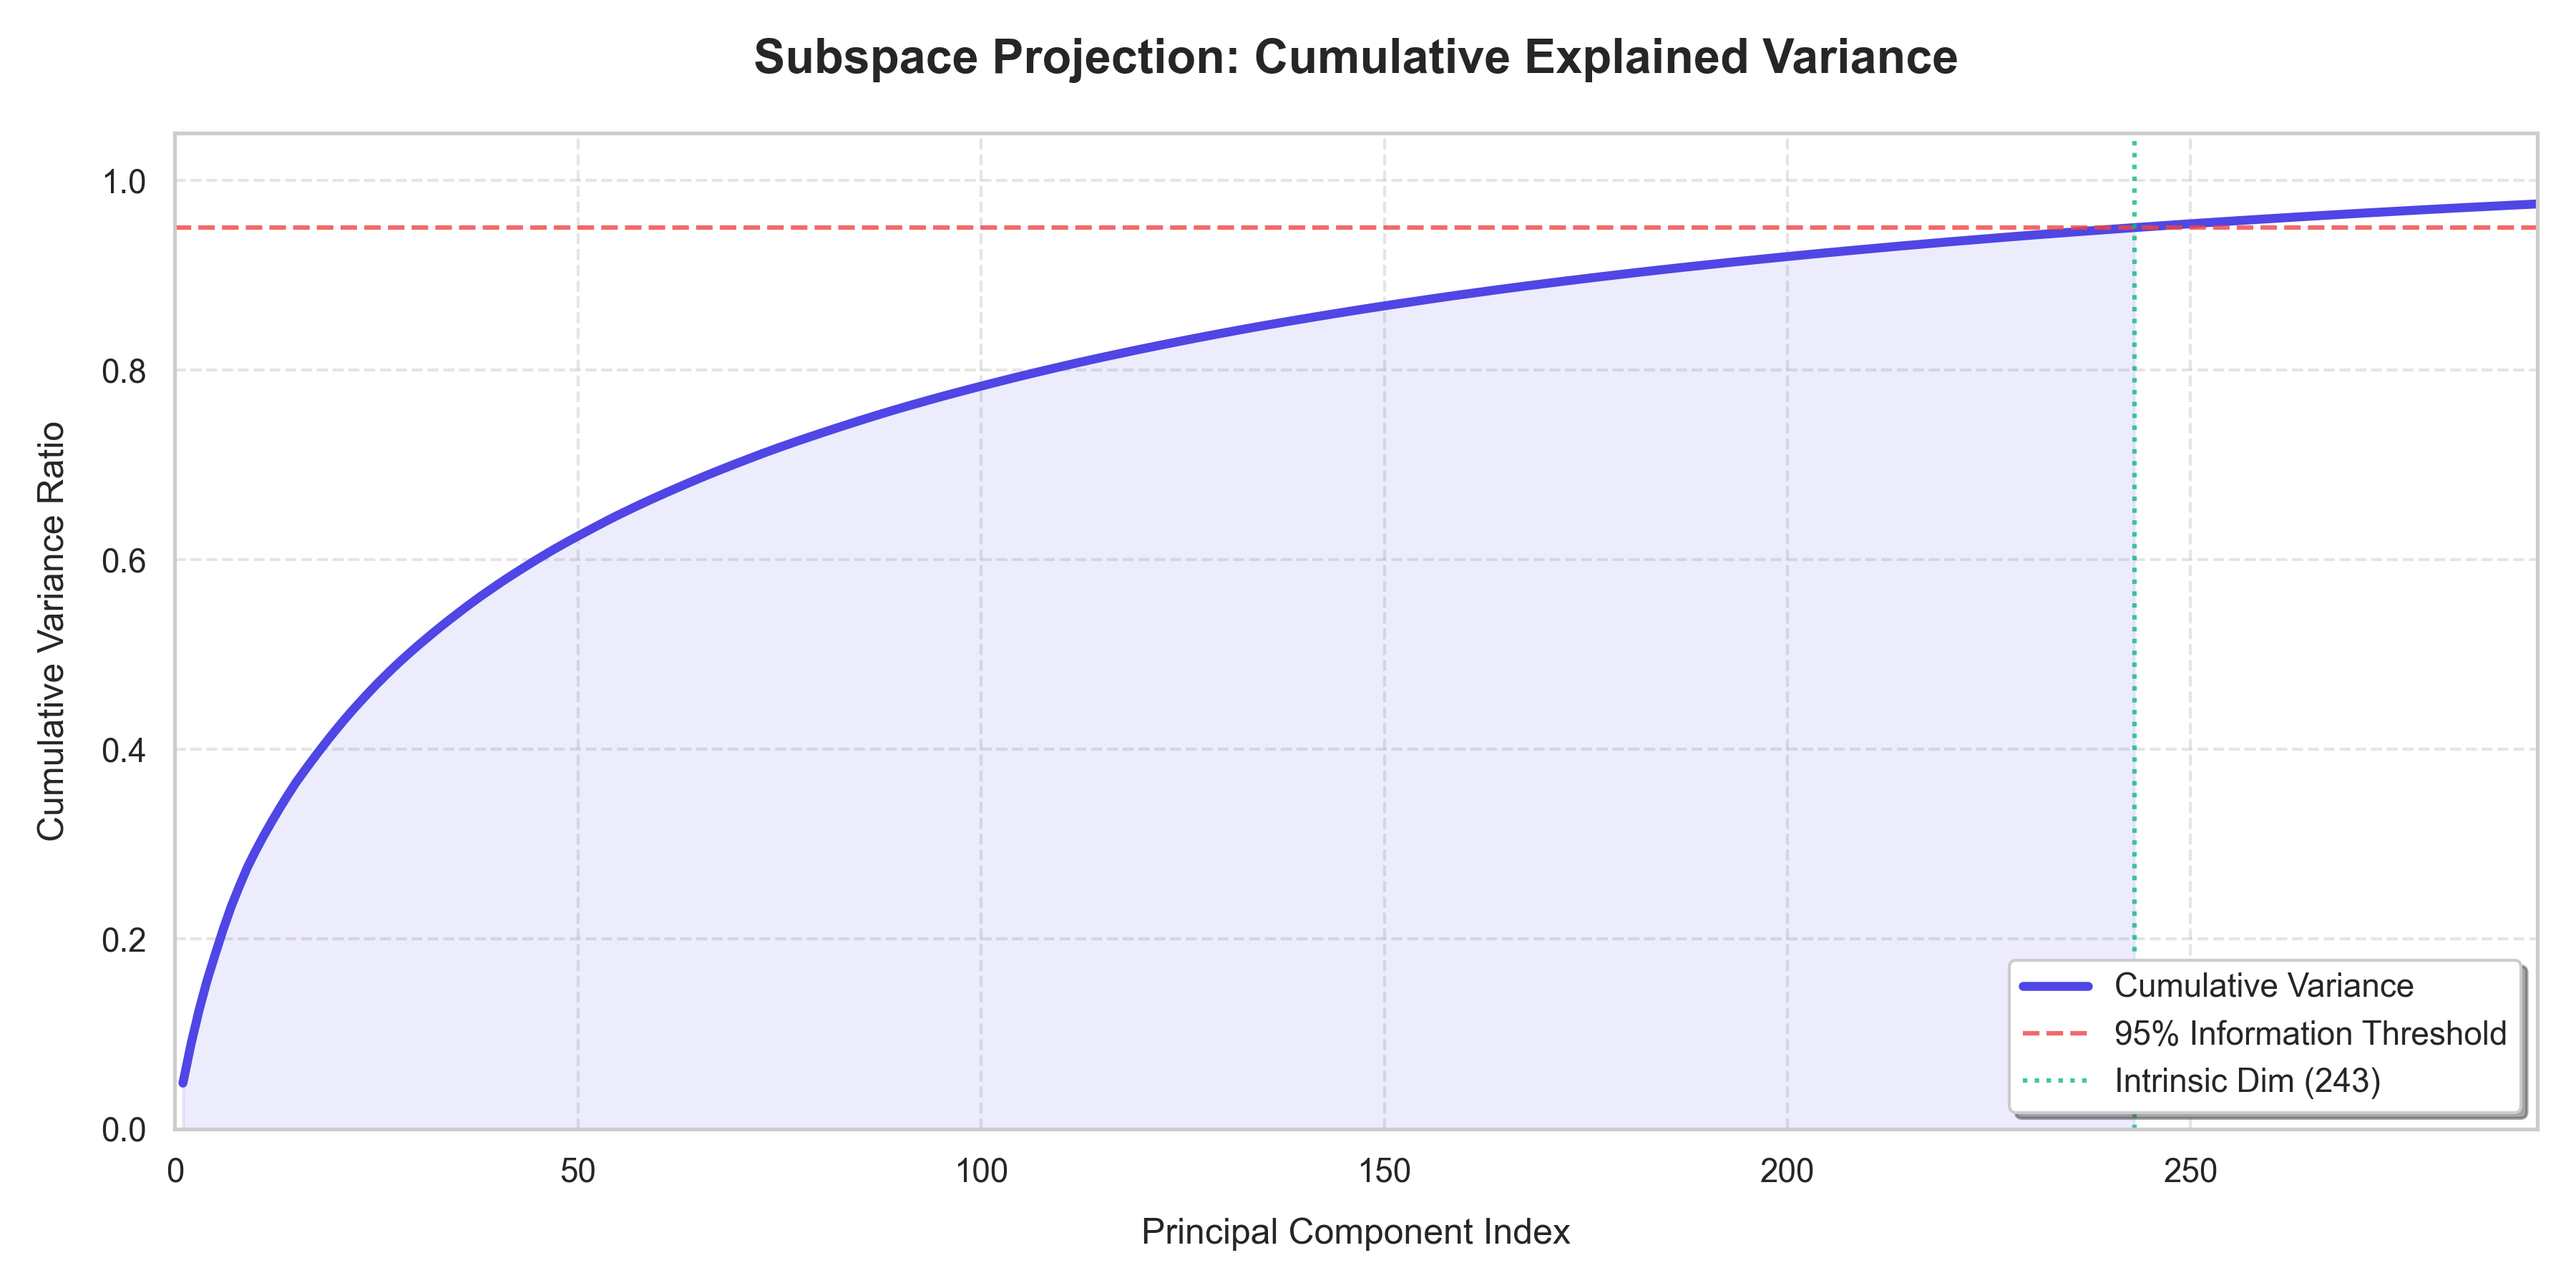
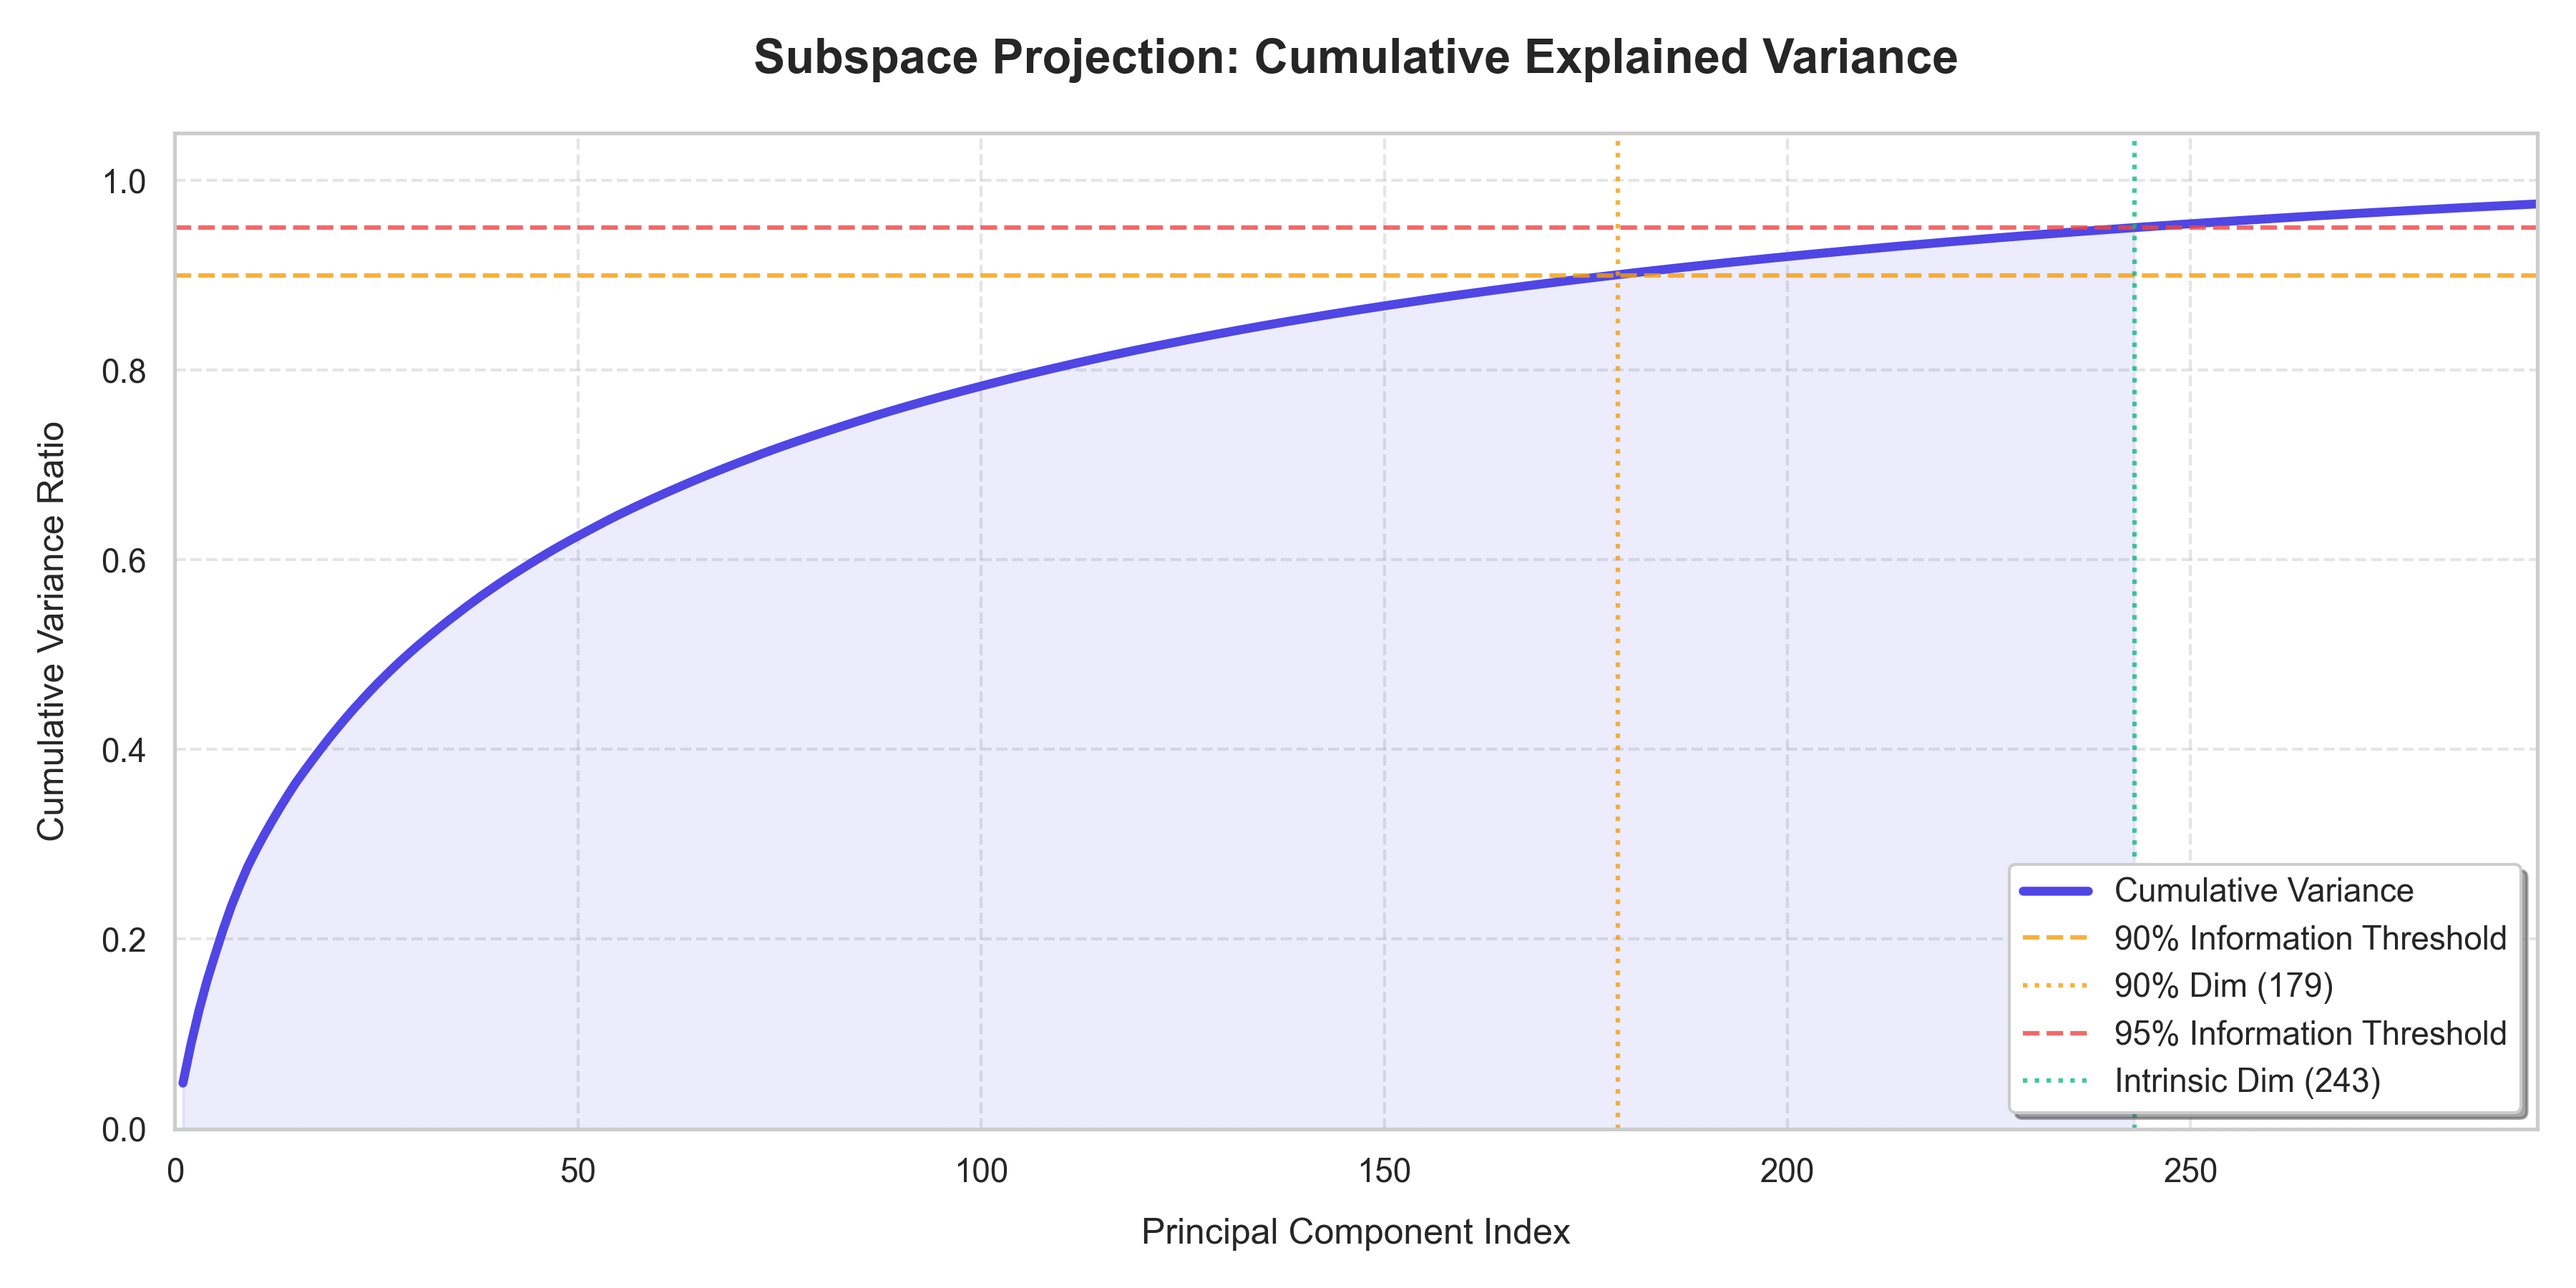
further steps continued

diff --git a/produc_vers/Phase 5_768.py b/produc_vers/Phase 5_768.py
@@ -1,21 +1,13 @@
 import numpy as np
-import matplotlib.pyplot as plt
-import seaborn as sns
-from sklearn.svm import SVC
-from sklearn.model_selection import train_test_split
-from sklearn.decomposition import PCA
-from sklearn.metrics import confusion_matrix, classification_report, f1_score
 import pandas as pd
+from sklearn.svm import SVC
+from sklearn.decomposition import PCA
+from sklearn.model_selection import train_test_split
+from sklearn.metrics import classification_report, f1_score
 from sentence_transformers import SentenceTransformer
 
-# --- Configuration & Styling ---
-sns.set_theme(style="white")
-plt.rcParams['font.family'] = 'sans-serif'
-
 def run_phase_5_evaluation():
-    print("--- Phase 5: Deep Evaluation Metrics (768 Dimensions) ---")
-    
-    # 1. Load Data (Using 768D)
+    # 1. Load Data
     input_file = 'spider_768_embeddings.npz'
     print(f"Loading embeddings from {input_file}...")
     data = np.load(input_file)
@@ -32,7 +24,7 @@ def run_phase_5_evaluation():
     X_train = pca.transform(X_train_full)
     X_test = pca.transform(X_test_full)
 
-    print(f"[Step 1] Training Optimized SVM (PCA={pca.n_components_} for 90% Var)...")
+    print(f"[Step 1] Training Optimized SVM (PCA={pca.n_components_} components for 90% Var)...")
     clf = SVC(kernel='rbf', probability=True, class_weight='balanced')
     clf.fit(X_train, y_train)
     y_pred = clf.predict(X_test)
@@ -42,6 +34,10 @@ def run_phase_5_evaluation():
     report = classification_report(y_test, y_pred, output_dict=True)
     df_report = pd.DataFrame(report).transpose()
     print(df_report.iloc[:-3].round(4))
+
+    # --- THE F1 SCORE SECTION ---
+    overall_f1 = f1_score(y_test, y_pred, average='weighted')
+    print(f"\nFinal Weighted F1-Score: {overall_f1:.4f}")
 
     # 4. === QUERY ROUTING LAYER PoC ===
     print("\n--- Testing Routing Layer (768D Model) ---")

diff --git a/produc_vers/scree_plot_768.py b/produc_vers/scree_plot_768.py
@@ -1,0 +1,39 @@
+import numpy as np
+import matplotlib.pyplot as plt
+from sklearn.decomposition import PCA
+
+# 1. Load the new 768D embeddings
+input_file = 'spider_768_embeddings.npz'
+print(f"Loading {input_file}...")
+data = np.load(input_file)
+X = data['X']
+
+# 2. Run PCA to calculate explained variance
+print("Calculating PCA variance components...")
+pca = PCA().fit(X)
+cumulative_variance = np.cumsum(pca.explained_variance_ratio_)
+
+# 3. Create the Scree Plot
+plt.figure(figsize=(10, 6))
+plt.plot(cumulative_variance, marker='o', linestyle='--', color='b')
+plt.xlabel('Number of Components')
+plt.ylabel('Cumulative Explained Variance')
+plt.title('Scree Plot: 768D Intrinsic Dimensionality')
+plt.axhline(y=0.90, color='r', linestyle='-', label='90% Variance Threshold')
+plt.axhline(y=0.95, color='g', linestyle='-', label='95% Variance Threshold')
+plt.grid(True)
+plt.legend()
+
+# 4. Save and Show
+save_path = 'scree_plot_768.png'
+plt.savefig(save_path)
+print(f"Scree plot saved to {save_path}")
+plt.show()
+
+# 5. Output some key stats
+n_90 = np.argmax(cumulative_variance >= 0.90) + 1
+n_95 = np.argmax(cumulative_variance >= 0.95) + 1
+print(f"\n--- Results ---")
+print(f"To capture 90% info: {n_90} dimensions needed.")
+print(f"To capture 95% info: {n_95} dimensions needed.")
+print(f"Total Dimensions available: 768")

diff --git a/produc_vers/map_blind_spots.py b/produc_vers/map_blind_spots.py
@@ -1,0 +1,39 @@
+import numpy as np
+import matplotlib.pyplot as plt
+from sklearn.decomposition import PCA
+
+# 1. Load the 768D embeddings
+print("Loading embeddings...")
+data = np.load('spider_768_embeddings.npz')
+X = data['X']
+y = data['y']
+
+# 2. Reduce to 2D for visualization
+print("Reducing dimensions for mapping...")
+pca = PCA(n_components=2)
+X_2d = pca.fit_transform(X)
+
+# 3. Create the Visualization
+plt.figure(figsize=(12, 8))
+colors = {'easy': '#4CAF50', 'medium': '#FFC107', 'hard': '#FF9800', 'extra': '#F44336'}
+labels = {'easy': 'Easy', 'medium': 'Medium', 'hard': 'Hard', 'extra': 'Extra Hard'}
+
+for diff in ['easy', 'medium', 'hard', 'extra']:
+    mask = (y == diff)
+    plt.scatter(X_2d[mask, 0], X_2d[mask, 1], label=labels[diff], alpha=0.6, s=15)
+
+plt.title('768D Embedding Space: Class Distribution & Blind Spots')
+plt.xlabel('PCA Component 1')
+plt.ylabel('PCA Component 2')
+plt.legend()
+plt.grid(True, linestyle='--', alpha=0.5)
+
+# Highlight "Blind Spot" areas (Regions with low density)
+plt.annotate('Potential Blind Spot', xy=(5, 0), xytext=(7, 2),
+             arrowprops=dict(facecolor='black', shrink=0.05))
+
+# 4. Save and Show
+save_path = 'blind_spot_map.png'
+plt.savefig(save_path)
+print(f"Map saved to {save_path}")
+

diff --git a/phase 2.py b/phase 2.py
@@ -50,12 +50,22 @@ def run_phase_2():
     full_pca = PCA().fit(X)
     cum_var = np.cumsum(full_pca.explained_variance_ratio_)
     
+    # Identify specific thresholds
+    n_90 = np.argmax(cum_var >= 0.90) + 1
+    n_95 = np.argmax(cum_var >= 0.95) + 1
+    
+    print(f"Dimensions needed for 90% variance: {n_90}")
+    print(f"Dimensions needed for 95% variance: {n_95}")
+    
     plt.figure(figsize=(12, 6), dpi=100)
     
     # Plot the curve
     plt.plot(range(1, len(cum_var) + 1), cum_var, color='#4f46e5', lw=3, label='Cumulative Variance')
     
-    # Markers for target threshold (95%) and intrinsic dimensionality
+    # Markers for target thresholds and intrinsic dimensionality
+    plt.axhline(y=0.90, color='#f59e0b', linestyle='--', alpha=0.8, label='90% Information Threshold')
+    plt.axvline(x=n_90, color='#f59e0b', linestyle=':', alpha=0.8, label=f'90% Dim ({n_90})')
+    
     plt.axhline(y=0.95, color='#ef4444', linestyle='--', alpha=0.8, label='95% Information Threshold')
     plt.axvline(x=intrinsic_dim, color='#10b981', linestyle=':', alpha=0.8, label=f'Intrinsic Dim ({intrinsic_dim})')
     
